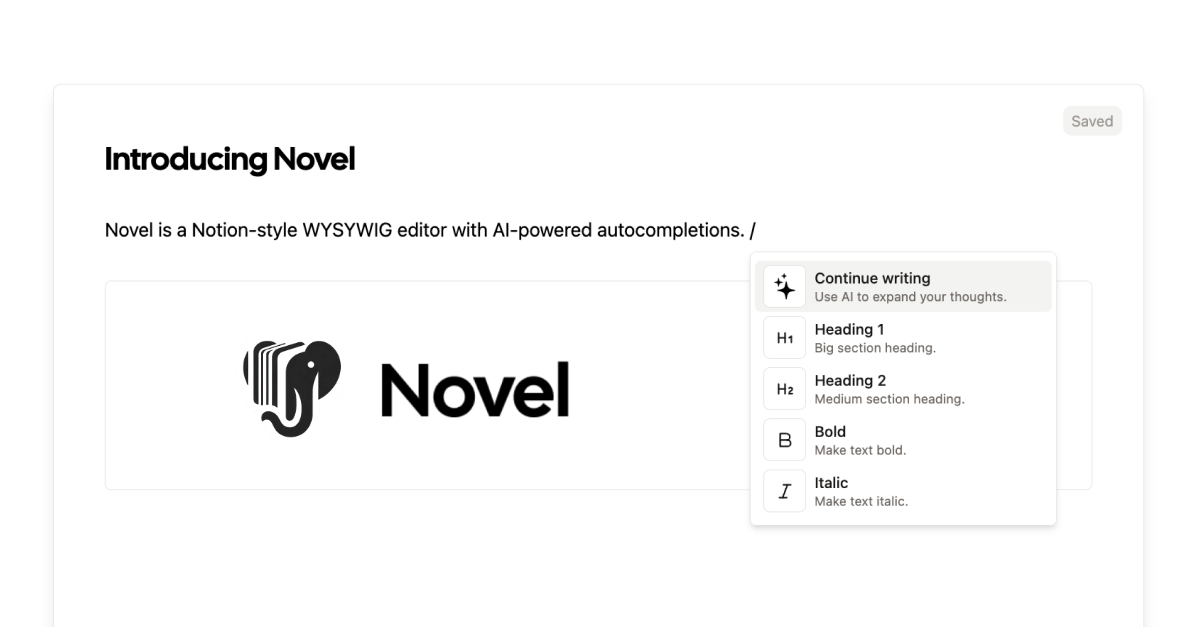
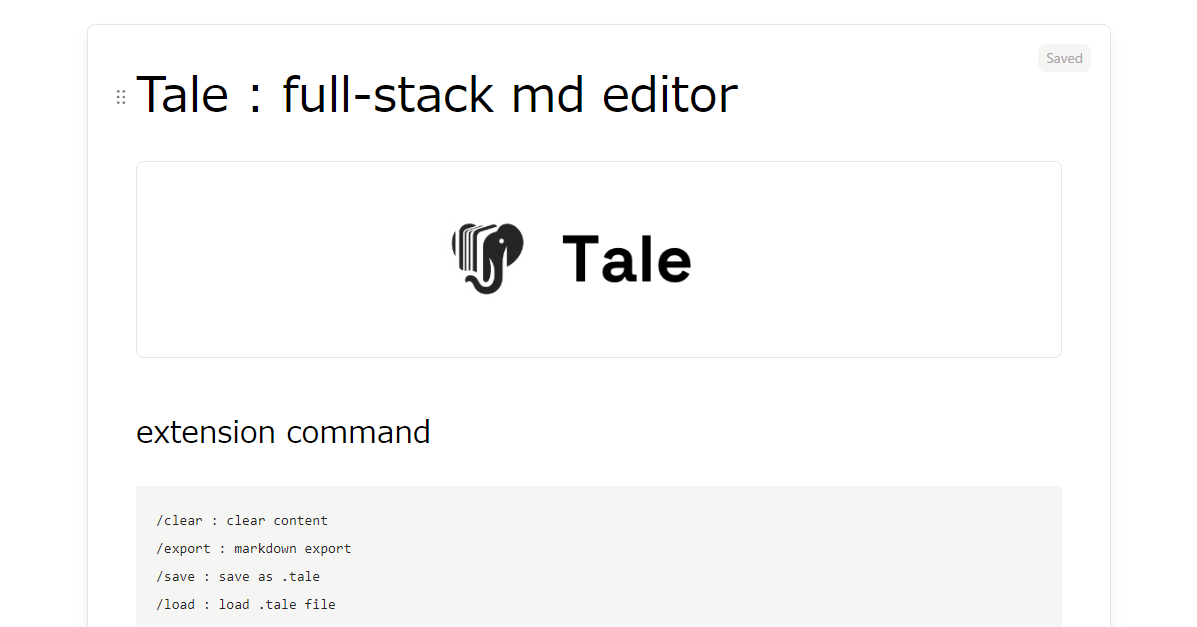
edit tale

diff --git a/packages/core/src/ui/editor/default-content.tsx b/packages/core/src/ui/editor/default-content.tsx
@@ -4,12 +4,12 @@ export const defaultEditorContent = {
     {
       type: "heading",
       attrs: { level: 1 },
-      content: [{ type: "text", text: "utautattaro novel editor" }],
+      content: [{ type: "text", text: "Tale : full-stack md editor" }],
     },
     {
       type: "image",
       attrs: {
-        src: "https://i.imgur.com/znF5Tec.png",
+        src: "https://i.imgur.com/jKhCBPD.png",
         alt: "banner.png",
         title: "banner.png",
         width: null,
@@ -17,14 +17,59 @@ export const defaultEditorContent = {
       },
     },
     {
+      type: "paragraph",
+      content: [
+        {
+          type: "text",
+          text: "Tale includes 'novel,' a software developed by Steven Tey, available at "
+        },
+        {
+          type: "text",
+          marks: [
+            {
+              type: "link",
+              attrs: {
+                href: "https://github.com/steven-tey/novel",
+                target: "_blank",
+                class: "text-stone-400 underline underline-offset-[3px] hover:text-stone-600 transition-colors cursor-pointer"
+              }
+            },
+          ],
+          text: "GitHub"
+        },
+        {
+          type: "text",
+          text: ", and is used under the "
+        },
+        {
+          type: "text",
+          marks: [
+            {
+              type: "link",
+              attrs: {
+                href: "https://www.apache.org/licenses/LICENSE-2.0",
+                target: "_blank",
+                class: "text-stone-400 underline underline-offset-[3px] hover:text-stone-600 transition-colors cursor-pointer"
+              }
+            },
+          ],
+          text: "Apache License 2.0"
+        },
+        {
+          type: "text",
+          text: ". We extend our gratitude to Steven Tey and all contributors to the 'novel' project for their valuable work."
+        }
+      ]
+    },
+    {
       type: "heading",
       attrs: { level: 2 },
-      content: [{ type: "text", text: "expansion novel command" }],
+      content: [{ type: "text", text: "extension command" }],
     },
     {
       type: "codeBlock",
       attrs: { language: null },
-      content: [{ type: "text", text: "clear : clear content\nexport : markdown export\nsave : save as .novel\nload : load .novel file" }],
+      content: [{ type: "text", text: "/clear : clear content\n/export : markdown export\n/save : save as .tale\n/load : load .tale file\n/fullscreen : fullscreen editor" }],
     }
   ],
 };

diff --git a/packages/core/src/ui/editor/extensions/slash-command.tsx b/packages/core/src/ui/editor/extensions/slash-command.tsx
@@ -27,7 +27,8 @@ import {
   NewspaperIcon,
   DownloadIcon,
   UploadIcon,
-  BombIcon
+  BombIcon,
+  MaximizeIcon
 } from "lucide-react";
 import { LoadingCircle } from "@/ui/icons";
 import { toast } from "sonner";
@@ -218,7 +219,7 @@ const getSuggestionItems = ({ query }: { query: string }) => {
       const opts = {
         suggestedName: 'document',
         types: [{
-          accept: {'text/plain': ['.novel']},
+          accept: {'text/plain': ['.tale']},
         }],
       };
       const handle = await (window as any).showSaveFilePicker(opts);
@@ -238,7 +239,7 @@ const getSuggestionItems = ({ query }: { query: string }) => {
     const input = document.createElement('input');
     input.type="file";
     input.id="upload_file";
-    input.accept=".novel"
+    input.accept=".tale"
     input.click(); // クリックイベントを発生させる
 
     var fileReader = new FileReader();
@@ -297,6 +298,17 @@ const getSuggestionItems = ({ query }: { query: string }) => {
       command: ({ editor, range }: CommandProps) => {
         editor.chain().focus().deleteRange(range).run();
         editor.commands.clearContent();
+      },
+    },
+    {
+      title: "fullscreen",
+      description: "fullscreen editor",
+      searchTerms: ["fullscreen"],
+      icon: <MaximizeIcon size={18} />,
+      command: ({ editor, range }: CommandProps) => {
+        editor.chain().focus().deleteRange(range).run();
+        let editordom = document.getElementsByClassName("novel-relative");
+        (editordom as any)[0].requestFullscreen();
       },
     },
   ].filter((item) => {

diff --git a/apps/web/app/layout.tsx b/apps/web/app/layout.tsx
@@ -5,9 +5,9 @@ import { ReactNode } from "react";
 import Providers from "./providers";
 
 const title =
-  "Novel";
+  "Tale";
 const description =
-  "Novel is a Notion-style WYSIWYG editor.";
+  "Tale : full-stack md editor";
 
 export const metadata: Metadata = {
   title,
@@ -20,9 +20,9 @@ export const metadata: Metadata = {
     title,
     description,
     card: "summary_large_image",
-    creator: "@steventey",
+    creator: "@utautattaro",
   },
-  metadataBase: new URL("https://novel.utautattaro.com"),
+  metadataBase: new URL("https://tale.utautattaro.com"),
   themeColor: "#ffffff",
 };
 

diff --git a/apps/web/app/page.tsx b/apps/web/app/page.tsx
@@ -6,7 +6,7 @@ export default function Page() {
   return (
     <div className="flex min-h-screen flex-col items-center sm:px-5 sm:pt-[calc(20vh)]">
       <a
-        href="https://github.com/utautattaro/novel"
+        href="https://github.com/utautattaro/tale"
         target="_blank"
         className="absolute top-5 left-5 z-10 max-h-fit rounded-lg transition-colors duration-200 hover:bg-stone-100 sm:bottom-auto sm:top-5"
       >
